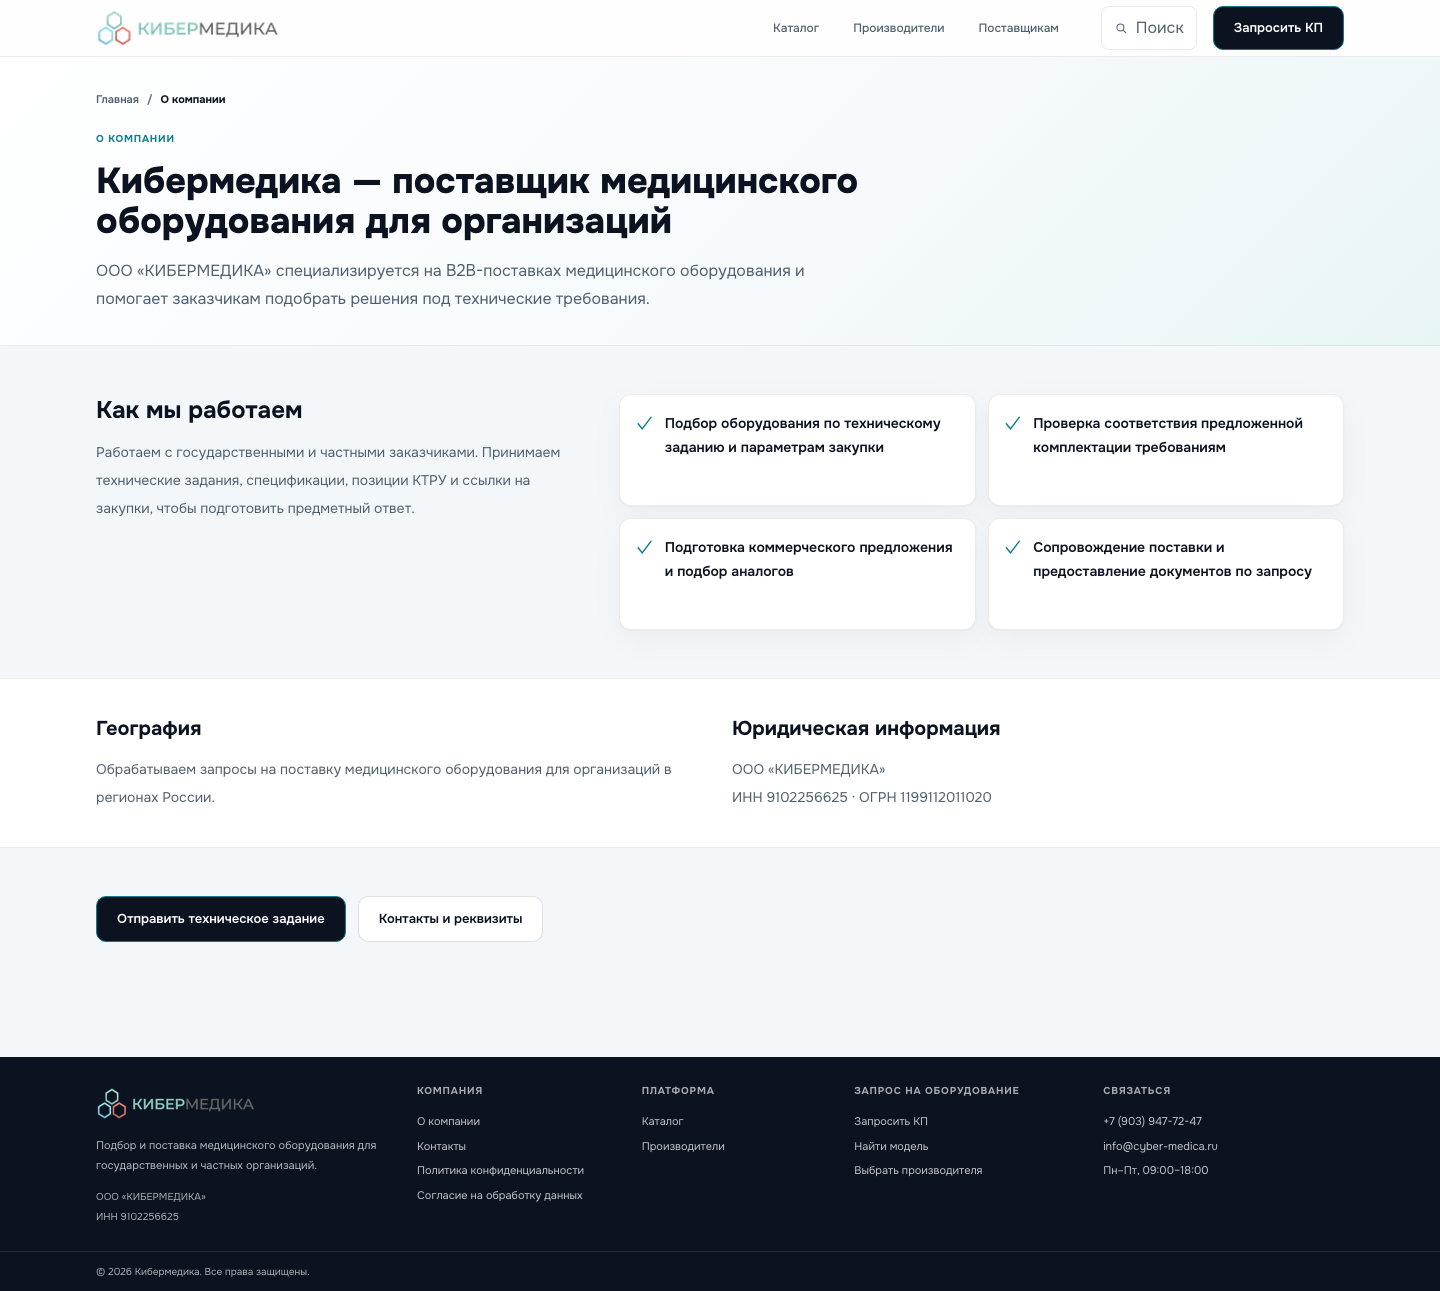
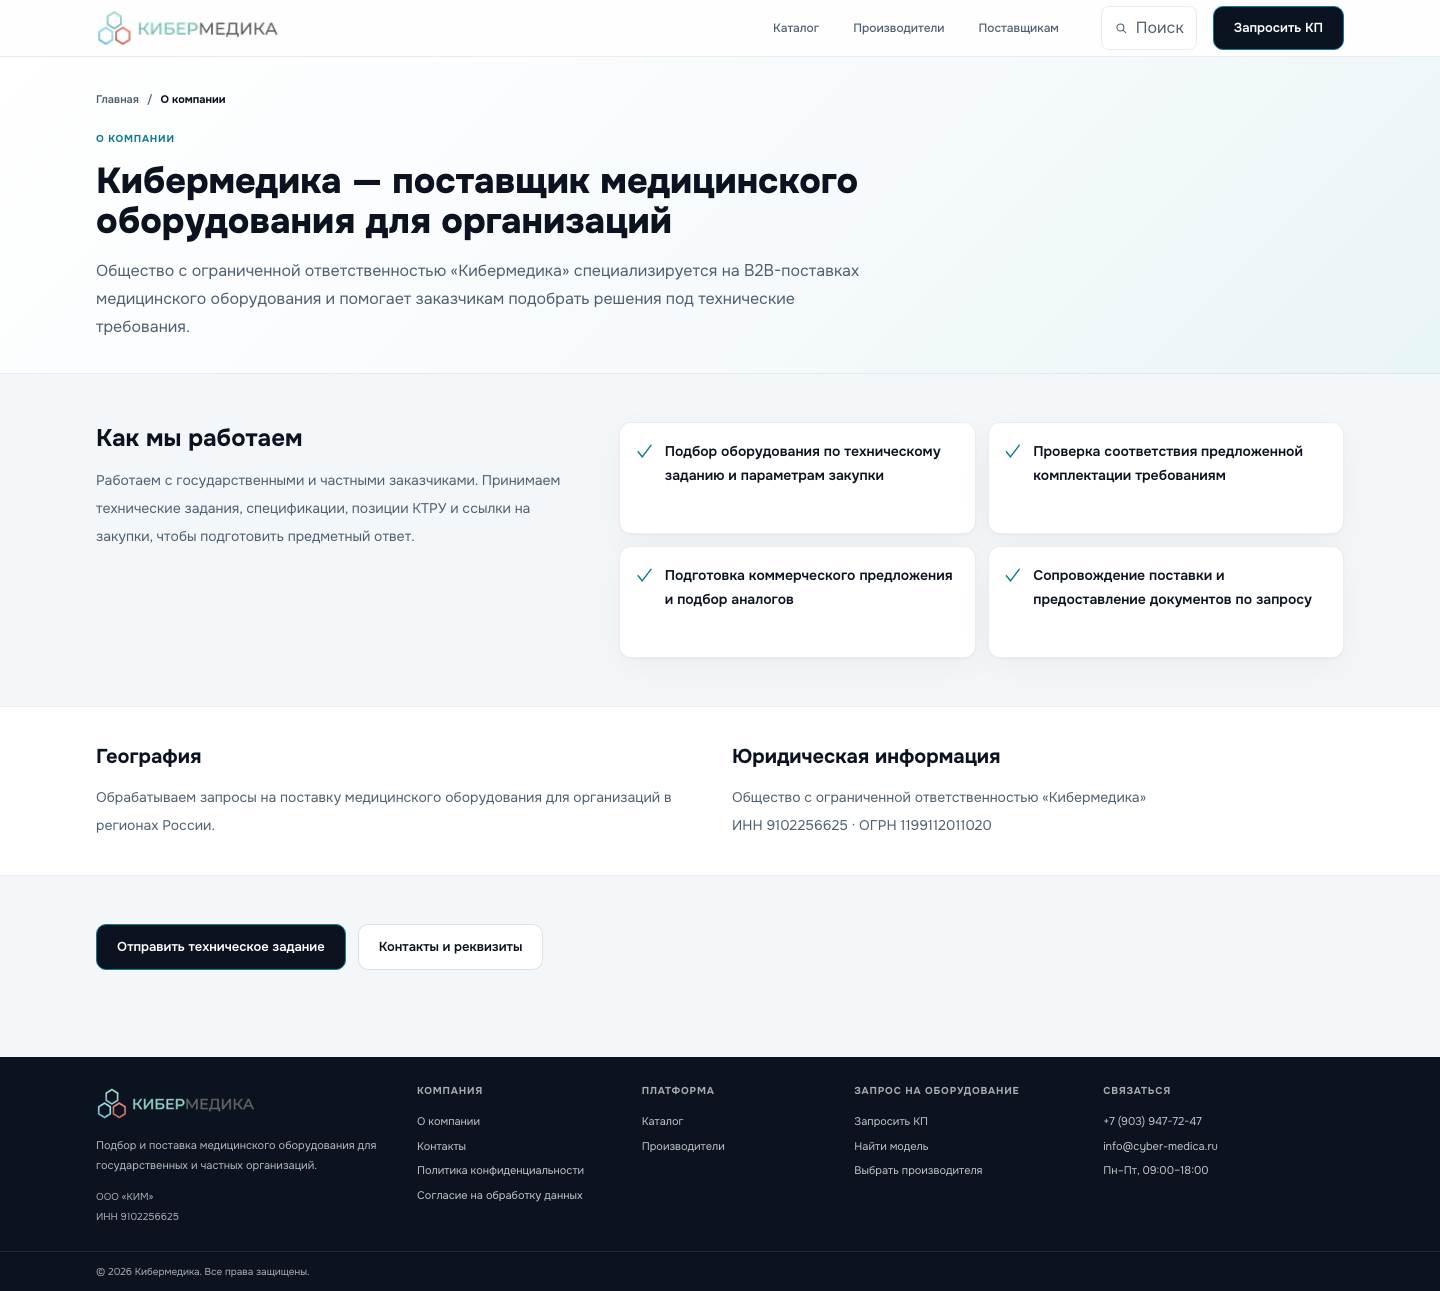
fix: correct public legal identity

diff --git a/tests/importers/trust-rfq-seo-foundation-v1-1.test.ts b/tests/importers/trust-rfq-seo-foundation-v1-1.test.ts
@@ -16,6 +16,9 @@ test("public company contract contains exact trust details and conservative Orga
   assert.deepEqual(
     {
       legalName: PUBLIC_COMPANY.legalName,
+      shortLegalName: PUBLIC_COMPANY.shortLegalName,
+      brandName: PUBLIC_COMPANY.brandName,
+      legalAddress: PUBLIC_COMPANY.legalAddress,
       inn: PUBLIC_COMPANY.inn,
       ogrn: PUBLIC_COMPANY.ogrn,
       kpp: PUBLIC_COMPANY.kpp,
@@ -23,7 +26,10 @@ test("public company contract contains exact trust details and conservative Orga
       phone: PUBLIC_COMPANY.phoneDisplay,
     },
     {
-      legalName: "ООО «КИБЕРМЕДИКА»",
+      legalName: "Общество с ограниченной ответственностью «Кибермедика»",
+      shortLegalName: "ООО «КИМ»",
+      brandName: "Кибермедика",
+      legalAddress: "295021, Республика Крым, г. Симферополь, ул. Данилова, д. 43, кабинет 32",
       inn: "9102256625",
       ogrn: "1199112011020",
       kpp: "910201001",
@@ -34,7 +40,9 @@ test("public company contract contains exact trust details and conservative Orga
 
   const schema = buildPublicCompanyStructuredData();
   assert.equal(schema["@type"], "Organization");
+  assert.equal(schema.name, PUBLIC_COMPANY.brandName);
   assert.equal(schema.legalName, PUBLIC_COMPANY.legalName);
+  assert.equal(schema.alternateName, PUBLIC_COMPANY.shortLegalName);
   assert.equal(schema.taxID, PUBLIC_COMPANY.inn);
   assert.equal(JSON.stringify(schema).includes("LocalBusiness"), false);
   assert.equal(JSON.stringify(schema).includes("MedicalBusiness"), false);
@@ -92,7 +100,7 @@ test("footer exposes company, contacts and legal navigation without personal ema
   for (const path of ["/about", "/contacts", "/privacy", "/personal-data-consent", "/request"]) {
     assert.match(footer, new RegExp(`href=[{]?["]${path}`, "u"));
   }
-  assert.match(footer, /PUBLIC_COMPANY\.legalName/u);
+  assert.match(footer, /PUBLIC_COMPANY\.shortLegalName/u);
   assert.match(footer, /PUBLIC_COMPANY\.inn/u);
   assert.doesNotMatch(footer, /arman|gmail\.com/iu);
 });

diff --git a/lib/company/public-company.ts b/lib/company/public-company.ts
@@ -2,7 +2,8 @@ import { STOREFRONT_SITE_URL } from "../storefront/seo.ts";
 
 export const PUBLIC_COMPANY = {
   brandName: "Кибермедика",
-  legalName: "ООО «КИБЕРМЕДИКА»",
+  legalName: "Общество с ограниченной ответственностью «Кибермедика»",
+  shortLegalName: "ООО «КИМ»",
   inn: "9102256625",
   ogrn: "1199112011020",
   kpp: "910201001",
@@ -12,7 +13,7 @@ export const PUBLIC_COMPANY = {
   emailHref: "mailto:info@cyber-medica.ru",
   businessHours: "Пн–Пт, 09:00–18:00",
   legalAddress:
-    "295021, Республика Крым, г. Симферополь, ул. Данилова, д. 43, этаж 2, кабинет 32",
+    "295021, Республика Крым, г. Симферополь, ул. Данилова, д. 43, кабинет 32",
   geography: "Российская Федерация",
   specialization:
     "Подбор и поставка медицинского оборудования для государственных и частных организаций",
@@ -25,6 +26,7 @@ export function buildPublicCompanyStructuredData() {
     "@id": `${STOREFRONT_SITE_URL}/#organization`,
     name: PUBLIC_COMPANY.brandName,
     legalName: PUBLIC_COMPANY.legalName,
+    alternateName: PUBLIC_COMPANY.shortLegalName,
     url: STOREFRONT_SITE_URL,
     logo: `${STOREFRONT_SITE_URL}/brand/cybermedica-logo.png`,
     email: PUBLIC_COMPANY.email,
@@ -48,7 +50,7 @@ export function buildPublicCompanyStructuredData() {
       addressCountry: "RU",
       addressRegion: "Республика Крым",
       addressLocality: "Симферополь",
-      streetAddress: "ул. Данилова, д. 43, этаж 2, кабинет 32",
+      streetAddress: "ул. Данилова, д. 43, кабинет 32",
     },
     areaServed: {
       "@type": "Country",

diff --git a/tests/importers/storefront-structured-data.test.ts b/tests/importers/storefront-structured-data.test.ts
@@ -53,7 +53,12 @@ test("homepage schema contains only conservative WebSite and Organization data",
   );
   assert.equal(schemas[0].url, `${STOREFRONT_SITE_URL}/`);
   assert.equal(schemas[0].description, "Каталог оборудования");
-  assert.equal(schemas[1].legalName, "ООО «КИБЕРМЕДИКА»");
+  assert.equal(schemas[1].name, "Кибермедика");
+  assert.equal(
+    schemas[1].legalName,
+    "Общество с ограниченной ответственностью «Кибермедика»",
+  );
+  assert.equal(schemas[1].alternateName, "ООО «КИМ»");
   assert.equal(schemas[1].taxID, "9102256625");
   assert.equal(schemas[1].logo, `${STOREFRONT_SITE_URL}/brand/cybermedica-logo.png`);
   assert.equal((schemas[1].contactPoint as Record<string, unknown>).contactType, "sales");

diff --git a/app/contacts/page.tsx b/app/contacts/page.tsx
@@ -10,7 +10,7 @@ import {
 import { buildBreadcrumbJsonLd, buildStorefrontMetadata } from "@/lib/storefront/seo";
 
 const description =
-  "Контакты и реквизиты ООО «КИБЕРМЕДИКА»: телефон, email, адрес и форма запроса коммерческого предложения.";
+  `Контакты и реквизиты юридического лица — ${PUBLIC_COMPANY.legalName}: телефон, email, адрес и форма запроса коммерческого предложения.`;
 
 export const metadata: Metadata = buildStorefrontMetadata({
   title: "Контакты и реквизиты",

diff --git a/components/home/Footer.tsx b/components/home/Footer.tsx
@@ -20,7 +20,7 @@ export default function Footer() {
             Подбор и поставка медицинского оборудования для государственных и частных организаций.
           </p>
           <p className="mt-3 text-[10px] leading-5 text-white/65">
-            {PUBLIC_COMPANY.legalName}<br />
+            {PUBLIC_COMPANY.shortLegalName}<br />
             ИНН {PUBLIC_COMPANY.inn}
           </p>
         </div>

diff --git a/docs/reports/trust-rfq-seo-foundation-2026-09-15.md b/docs/reports/trust-rfq-seo-foundation-2026-09-15.md
@@ -14,11 +14,12 @@ This sprint adds a focused public trust and RFQ foundation without changing Prod
 
 | Field | Public value |
 | --- | --- |
-| Legal name | ООО «КИБЕРМЕДИКА» |
+| Full legal name | Общество с ограниченной ответственностью «Кибермедика» |
+| Short legal name | ООО «КИМ» |
 | INN | 9102256625 |
 | KPP | 910201001 |
 | OGRN | 1199112011020 |
-| Legal address | 295021, Республика Крым, г. Симферополь, ул. Данилова, д. 43, этаж 2, кабинет 32 |
+| Legal address | 295021, Республика Крым, г. Симферополь, ул. Данилова, д. 43, кабинет 32 |
 | Phone | +7 (903) 947-72-47 |
 | Email | info@cyber-medica.ru |
 | Business hours | Пн–Пт, 09:00–18:00 |
